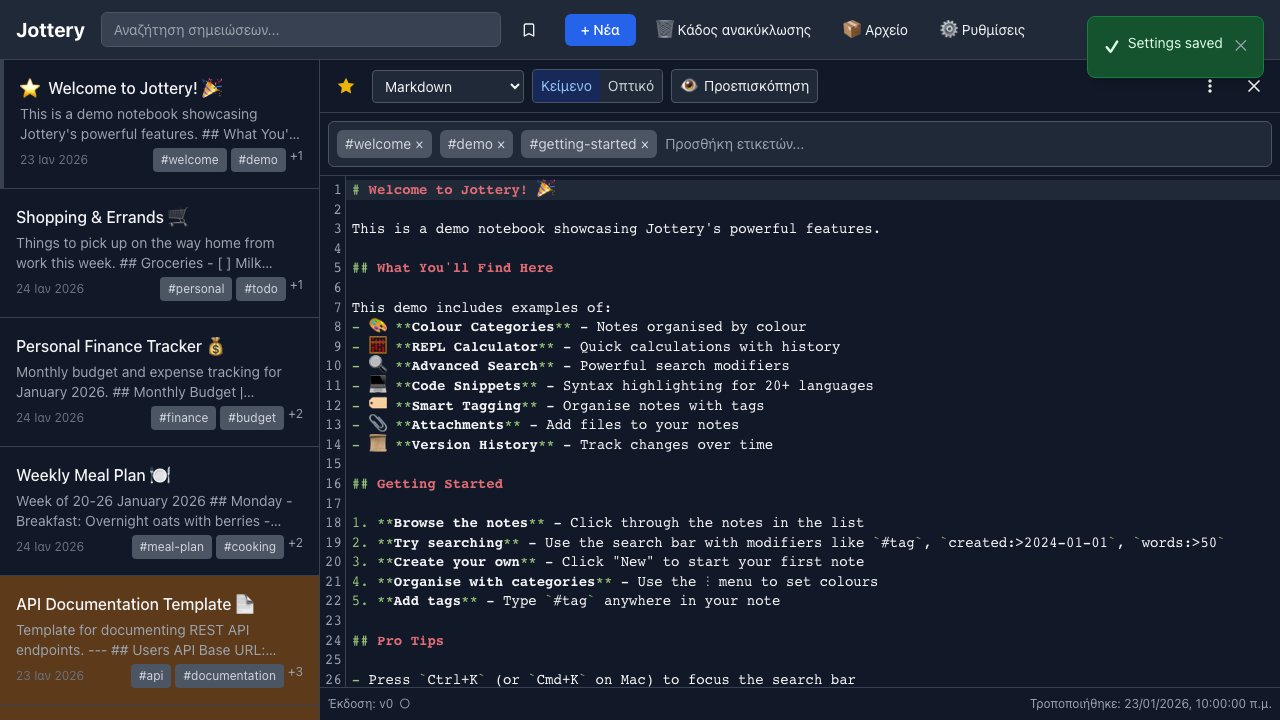
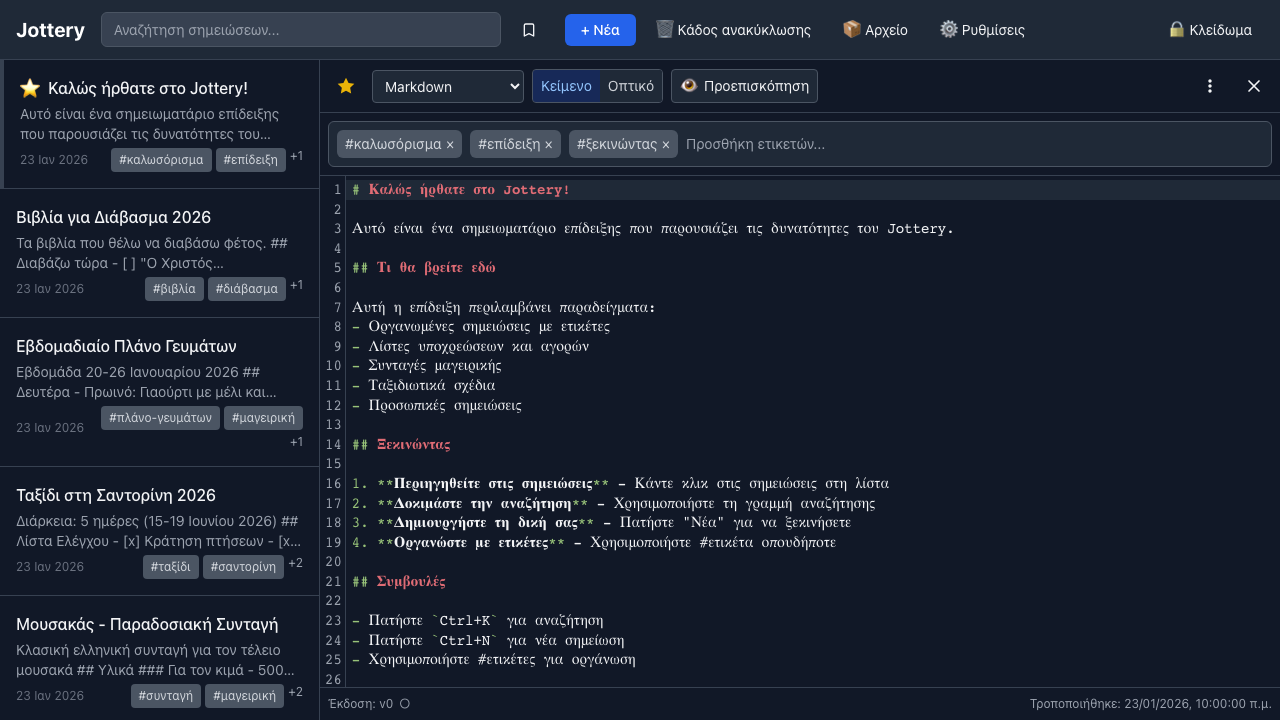
fix(settings): Show toast in new language after locale change
- Add tick() before toast.success() to wait for Svelte reactive updates
- Create Greek demo notes file for multilingual screenshot
- Update Greek UI tests to use Greek demo content
- Wait for toast to disappear before taking screenshot

diff --git a/demo-generation/playwright/screenshots.spec.ts b/demo-generation/playwright/screenshots.spec.ts
@@ -12,8 +12,8 @@ const LANG = process.env.LANG || 'en-GB';
 const SCREENSHOT_DIR = `screenshots/${LANG}`;
 
 // Helper function to import demo notes via Settings UI
-async function importDemoNotes(page: any) {
-  const demoNotesPath = join(process.cwd(), 'demo-generation', 'jottery-demo-notes.json');
+async function importDemoNotes(page: any, demoFile: string = 'jottery-demo-notes.json') {
+  const demoNotesPath = join(process.cwd(), 'demo-generation', demoFile);
 
   // Open settings
   const settingsButton = page.locator('button').filter({ hasText: /Settings|⚙/i }).first();
@@ -792,8 +792,8 @@ test.describe('Landing Page Screenshots - Dark Mode', () => {
 });
 
 // Helper function to import demo notes on mobile (via hamburger menu)
-async function importDemoNotesMobile(page: any) {
-  const demoNotesPath = join(process.cwd(), 'demo-generation', 'jottery-demo-notes.json');
+async function importDemoNotesMobile(page: any, demoFile: string = 'jottery-demo-notes.json') {
+  const demoNotesPath = join(process.cwd(), 'demo-generation', demoFile);
 
   // On mobile, settings is behind the hamburger menu
   const hamburgerMenu = page.locator('button[aria-label="Menu"], button.hamburger-menu, [aria-label="Toggle menu"]').first();
@@ -1539,14 +1539,16 @@ test.describe('Landing Page Screenshots - Greek UI Light', () => {
     // Wait for app to load
     await page.waitForTimeout(2000);
 
-    // Import demo notes
-    await importDemoNotes(page);
+    // Import Greek demo notes
+    await importDemoNotes(page, 'jottery-demo-notes-el.json');
 
-    // Set tag colors
+    // Set tag colors for Greek tags
     await setTagColors(page, {
-      demo: 'blue',
-      recipe: 'orange',
-      notes: 'purple',
+      'καλωσόρισμα': 'blue',
+      'επίδειξη': 'purple',
+      'συνταγή': 'orange',
+      'ταξίδι': 'green',
+      'αγορές': 'red',
     });
 
     await page.waitForTimeout(1000);
@@ -1574,14 +1576,16 @@ test.describe('Landing Page Screenshots - Greek UI Light', () => {
     const saveButton = modal.locator('button').filter({ hasText: /Save Settings/i }).first();
     await saveButton.waitFor({ state: 'visible' });
     await saveButton.click();
-    await page.waitForTimeout(1500); // Wait for language to apply
+
+    // Wait for toast to disappear (toast displays for ~3 seconds)
+    await page.waitForTimeout(4000);
   });
 
   test('10-light. Greek UI - Multi-lingual', async ({ page }) => {
     // Wait for locale to fully apply
     await page.waitForTimeout(1000);
 
-    // Click on the welcome note (should be pinned at top)
+    // Click on the welcome note (should be pinned at top - titled "Καλώς ήρθατε στο Jottery!")
     const noteListItems = page.locator('.note-list-item, [role="listitem"]');
     const firstNote = noteListItems.first();
     await firstNote.waitFor({ state: 'visible' });
@@ -1635,14 +1639,16 @@ test.describe('Landing Page Screenshots - Greek UI Dark', () => {
     // Wait for app to load
     await page.waitForTimeout(2000);
 
-    // Import demo notes
-    await importDemoNotes(page);
+    // Import Greek demo notes
+    await importDemoNotes(page, 'jottery-demo-notes-el.json');
 
-    // Set tag colors
+    // Set tag colors for Greek tags
     await setTagColors(page, {
-      demo: 'blue',
-      recipe: 'orange',
-      notes: 'purple',
+      'καλωσόρισμα': 'blue',
+      'επίδειξη': 'purple',
+      'συνταγή': 'orange',
+      'ταξίδι': 'green',
+      'αγορές': 'red',
     });
 
     await page.waitForTimeout(1000);
@@ -1670,7 +1676,9 @@ test.describe('Landing Page Screenshots - Greek UI Dark', () => {
     const saveButton = modal.locator('button').filter({ hasText: /Save Settings/i }).first();
     await saveButton.waitFor({ state: 'visible' });
     await saveButton.click();
-    await page.waitForTimeout(1500); // Wait for language to apply
+
+    // Wait for toast to disappear (toast displays for ~3 seconds)
+    await page.waitForTimeout(4000);
 
     // Apply dark theme
     await page.evaluate(() => {
@@ -1683,7 +1691,7 @@ test.describe('Landing Page Screenshots - Greek UI Dark', () => {
     // Wait for locale to fully apply
     await page.waitForTimeout(1000);
 
-    // Click on the welcome note (should be pinned at top)
+    // Click on the welcome note (should be pinned at top - titled "Καλώς ήρθατε στο Jottery!")
     const noteListItems = page.locator('.note-list-item, [role="listitem"]');
     const firstNote = noteListItems.first();
     await firstNote.waitFor({ state: 'visible' });

diff --git a/src/lib/components/SettingsModal.svelte b/src/lib/components/SettingsModal.svelte
@@ -1,5 +1,5 @@
 <script lang="ts">
-  import { onMount } from 'svelte';
+  import { onMount, tick } from 'svelte';
   import { settings, isLocked, notes } from '../stores/appStore';
   import { settingsRepository, deleteDB, noteService, searchService, syncService, syncRepository, keyManager, cryptoService, encryptionRepository, lock, passwordStorageService, sessionStorageService, noteRepository, createSyncRecoveryNote } from '../services';
   import { exportAllNotes, downloadExport, parseImportFile, importNotes } from '../services/exportService';
@@ -711,6 +711,8 @@
         tagColors,
       }));
 
+      // Wait for Svelte to process reactive updates (e.g., locale change) before showing toast
+      await tick();
       toast.success($_('settings.settingsSaved'));
       onClose();
     } catch (error) {
